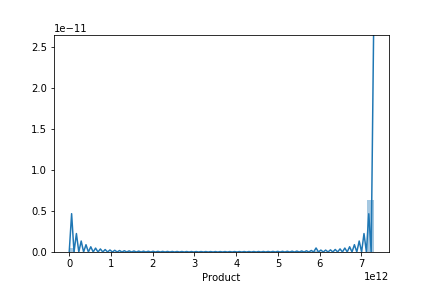
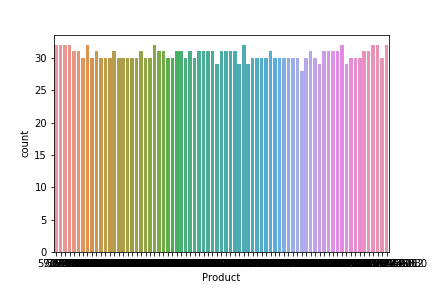
updated version V2

diff --git a/Documents/AGG-EDA-Mechkar-HTML/report.html b/Documents/AGG-EDA-Mechkar-HTML/report.html
@@ -145,9 +145,8 @@
             <div class='Cell Title'> Outliers </div>
             
             </div>
-        <div class='Row'><div class='Cell Title'><b> Product </b></div><div class='Cell'> <u>Data type</u>: Continuous <p> <u>Data length</u>: 2291/2291 (  100.00%%) <br>
-                    <u>Missing</u>: 0 (    0.00%%)<p> <u>Mean</u>: 6,765,345,910,415.20 	 <u>StdDev</u>: 1,854,435,507,066.80 <br><u>Median</u>: 7,290,003,029,181.00 	
-                    <u>IQR</u>: 7,290,000,057,477.00-7,290,004,554,781.00<br><u>Min</u>: 17 	 <u>Max</u>: 7290107932080 </div>
+        <div class='Row'><div class='Cell Title'><b> Product </b></div><div class='Cell'> <u>Data type</u>: Category <p> <u>Data length</u>: 75/2291 <br>
+                    <u>Missing</u>: 0 (    0.00%%)<p> <u>Categories</u>: ['   32.00 (    1.40%)', '   32.00 (    1.40%)', '   32.00 (    1.40%)', '   32.00 (    1.40%)', '   32.00 (    1.40%)', '   32.00 (    1.40%)', '2,067.00 (   90.20%)'] <br>  </div>
                     <div class='Cell'><img src="Product_1.png"></img></div>
                     <div class='Cell'><img src="Product_2.png"></img></div>
                     </div><div class='Row'><div class='Cell Title'><b> Year </b></div><div class='Cell'> <u>Data type</u>: Category <p> <u>Data length</u>: 2291/2291 <br>
@@ -173,11 +172,11 @@
                     <u>IQR</u>:     2.40-    7.00<br><u>Min</u>: 0.0 	 <u>Max</u>: 168.05 </div>
                     <div class='Cell'><img src="Avg_cost_1.png"></img></div>
                     <div class='Cell'><img src="Avg_cost_2.png"></img></div>
-                    </div><div class='Row'><div class='Cell Title'><b> Standart_price </b></div><div class='Cell'> <u>Data type</u>: Continuous <p> <u>Data length</u>: 2291/2291 (  100.00%%) <br>
+                    </div><div class='Row'><div class='Cell Title'><b> Standard_price </b></div><div class='Cell'> <u>Data type</u>: Continuous <p> <u>Data length</u>: 2291/2291 (  100.00%%) <br>
                     <u>Missing</u>: 0 (    0.00%%)<p> <u>Mean</u>:     5.80 	 <u>StdDev</u>:     5.50 <br><u>Median</u>:     4.10 	
                     <u>IQR</u>:     2.40-    7.50<br><u>Min</u>: 0.76 	 <u>Max</u>: 30.88 </div>
-                    <div class='Cell'><img src="Standart_price_1.png"></img></div>
-                    <div class='Cell'><img src="Standart_price_2.png"></img></div>
+                    <div class='Cell'><img src="Standard_price_1.png"></img></div>
+                    <div class='Cell'><img src="Standard_price_2.png"></img></div>
                     </div><div class='Row'><div class='Cell Title'><b> Category </b></div><div class='Cell'> <u>Data type</u>: Continuous <p> <u>Data length</u>: 2291/2291 (  100.00%%) <br>
                     <u>Missing</u>: 0 (    0.00%%)<p> <u>Mean</u>: 100,742.70 	 <u>StdDev</u>: 1,063.10 <br><u>Median</u>: 100,329.00 	
                     <u>IQR</u>: 100,211.00-100,411.00<br><u>Min</u>: 100188 	 <u>Max</u>: 103560 </div>
@@ -201,10 +200,6 @@
                     <u>Missing</u>: 0 (    0.00%%)<p> <u>Categories</u>: ['2,141.00 (   93.50%)', '  150.00 (    6.50%)'] <br>  </div>
                     <div class='Cell'><img src="Temp_Rain_1.png"></img></div>
                     <div class='Cell'><img src="Temp_Rain_2.png"></img></div>
-                    </div><div class='Row'><div class='Cell Title'><b> class </b></div><div class='Cell'> <u>Data type</u>: Category <p> <u>Data length</u>: 75/2291 <br>
-                    <u>Missing</u>: 0 (    0.00%%)<p> <u>Categories</u>: ['   32.00 (    1.40%)', '   32.00 (    1.40%)', '   32.00 (    1.40%)', '   32.00 (    1.40%)', '   32.00 (    1.40%)', '   32.00 (    1.40%)', '2,067.00 (   90.20%)'] <br>  </div>
-                    <div class='Cell'><img src="class_1.png"></img></div>
-                    <div class='Cell'><img src="class_2.png"></img></div>
                     </div>
                 <div data-role='popup' id='myContainer' style='display: none;'>
                 <img id='popup_img' src='' />
